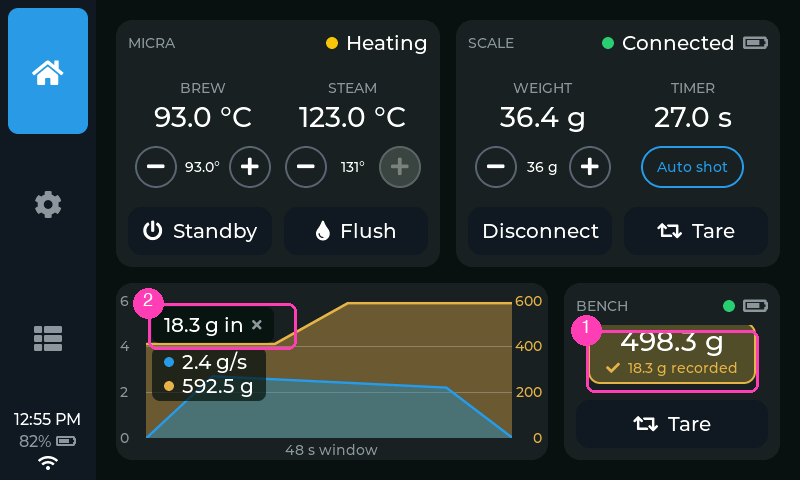
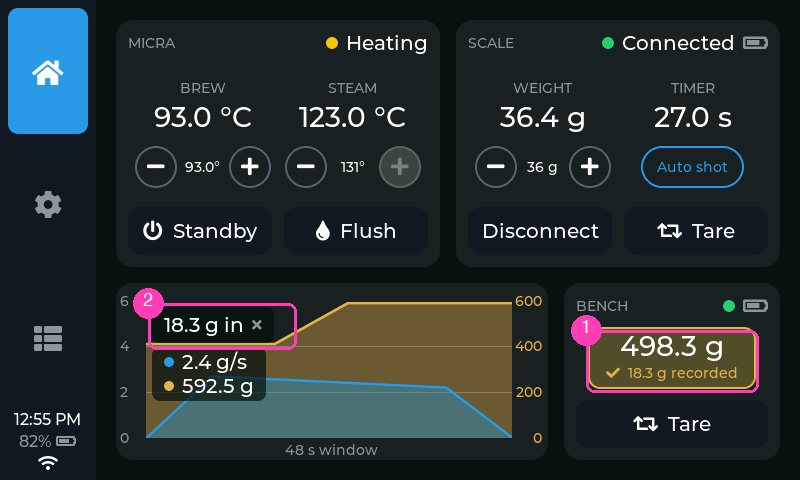
home: the beside card's weight nudge applies only with the stepper on the line — the body clips its children and the Record outline lost its top (owner)

Changed region(s): [[0.7188, 0.6562, 0.9688, 0.8125]]

diff --git a/src/ui/home_tab.cpp b/src/ui/home_tab.cpp
@@ -1245,7 +1245,9 @@ lv_obj_t* build_bench_panel(lv_obj_t* parent, const lv_font_t* cap_font,
       lv_obj_set_style_pad_bottom(blk, 0, 0);
       lv_obj_set_style_pad_row(card, ui::dp(8), 0);
       // The weight sits a little higher than the layout puts it, into the
-      // header gap, so the stepper gets air under the value (owner).
+      // header gap, so the stepper gets air under the value (owner) — only
+      // while the stepper is on the line: the body clips its children, and
+      // the outline's top would go with it (set_bench_dose).
       lv_obj_set_style_translate_y(blk, -ui::dp(5), 0);
     }
     lv_obj_set_style_pad_top(body, 0, 0);
@@ -1312,9 +1314,10 @@ void set_bench_dose(HomeWidgets& w, int state, float dose_g) {
   // scale's name on its next pass). Candidate: amber outline + faint fill.
   // Recorded: a deeper fill.
   lv_obj_set_style_border_width(w.bench_block, state == 0 ? 0 : ui::dp(2), 0);
-  if (w.bench_dose_on_caption) {  // beside the graph: outline padding only with the outline
-    lv_obj_set_style_pad_top(w.bench_block, state == 0 ? 0 : ui::dp(2), 0);
-    lv_obj_set_style_pad_bottom(w.bench_block, state == 0 ? 0 : ui::dp(6), 0);
+  if (w.bench_dose_on_caption) {  // beside the graph: outline padding + the
+    lv_obj_set_style_pad_top(w.bench_block, state == 0 ? 0 : ui::dp(2), 0);  // centred block
+    lv_obj_set_style_pad_bottom(w.bench_block, state == 0 ? 0 : ui::dp(6), 0);  // only with the
+    lv_obj_set_style_translate_y(w.bench_block, state == 0 ? -ui::dp(5) : 0, 0);  // outline
   }
   lv_obj_set_style_bg_opa(w.bench_block, state == 0 ? LV_OPA_TRANSP
                                          : state == 1 ? LV_OPA_10 : LV_OPA_30, 0);
